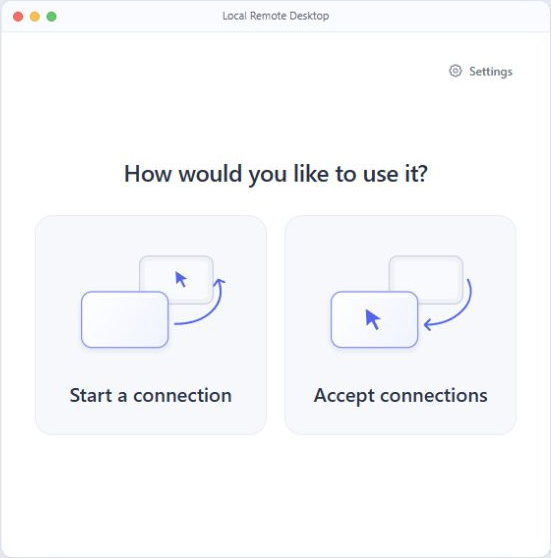
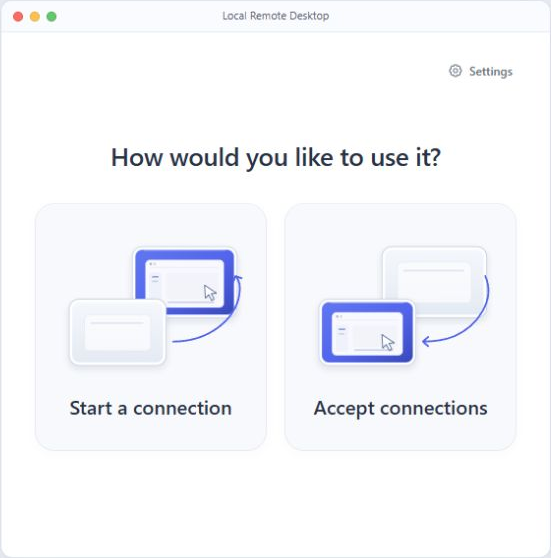
design: rebuild entry art with controlled desktop scenes

diff --git a/design/entry-review/styles.css b/design/entry-review/styles.css
@@ -679,9 +679,9 @@ input[type=checkbox] {
 }
 .welcome-heading {
   text-align: center;
-  line-height: 1.5;
-  margin: 0 0 26px;
-  font-size: 24px;
+  line-height: 1.4;
+  margin: 0 0 30px;
+  font-size: 26px;
   font-weight: 500;
   color: #293247;
   letter-spacing: -.35px;
@@ -697,17 +697,19 @@ input[type=checkbox] {
   align-items: center;
   justify-content: center;
   text-align: center;
-  min-height: 224px;
-  padding: 20px 14px 24px;
-  border: 1px solid #e9ecf4;
-  border-radius: 18px;
-  background: #f7f8fc;
+  min-height: 252px;
+  padding: 20px 14px 22px;
+  border: 1px solid #e7ebf4;
+  border-radius: 20px;
+  background: #f8f9fc;
+  box-shadow: inset 0 1px 0 #ffffff, 0 3px 10px #33456a05;
+  transition: background-color 120ms ease, border-color 120ms ease, box-shadow 120ms ease;
 }
 .role-illustration {
-  width: 176px;
-  height: 130.24px;
+  width: 188px;
+  height: 145.7px;
   display: block;
-  margin: 0 0 13px;
+  margin: 0 0 17px;
   pointer-events: none;
 }
 .choice strong {
@@ -718,12 +720,14 @@ input[type=checkbox] {
   color: #293247;
 }
 .choice:hover:not(:disabled) {
-  border-color: #c8d0f5;
-  background: #f1f3fc;
+  border-color: #bdc9ef;
+  background: #ffffff;
+  box-shadow: inset 0 1px 0 #ffffff, 0 8px 22px #3349810d;
 }
 .choice:active:not(:disabled) {
-  border-color: #9aa8e8;
-  background: #e9edf9;
+  border-color: #9aaee9;
+  background: #edf1fa;
+  box-shadow: inset 0 1px 3px #3349810c;
 }
 .choice:focus-visible {
   outline: 3px solid #7c8deb;
@@ -737,13 +741,13 @@ input[type=checkbox] {
     gap: 12px;
   }
   .choice {
-    min-height: 205px;
+    min-height: 222px;
     padding: 17px 8px 20px;
     border-radius: 14px;
   }
   .role-illustration {
-    width: 150px;
-    height: 111px;
+    width: 152px;
+    height: 117.8px;
     margin-bottom: 14px;
   }
   .choice strong {
@@ -769,3 +773,5 @@ input[type=checkbox] {
 .settings-shortcut .icon { width: 16px; height: 16px; stroke-width: 1.5; }
 .settings-shortcut:hover:not(:disabled) { background: #f0f2f8; border-color: transparent; color: var(--ink); }
 .settings-shortcut:active:not(:disabled) { background: #e8ecf5; }
+
+@media (prefers-reduced-motion: reduce) { .choice { transition: none; } }

diff --git a/docs/entry-design.md b/docs/entry-design.md
@@ -55,7 +55,8 @@ the full visual proposal still needs review.
 The homepage keeps only the main question: no explanatory subtitle or role
 subtitles. Each role's icon and label are centered as one group. Both
 illustrations keep the local screen in the foreground at lower left, with a
-neutral remote screen behind it at upper right. A curved connection path reverses
+remote screen behind it at upper right. Brand blue now marks the operated
+desktop, not the identity of the local machine. A curved connection path reverses
 direction to show connection initiation, not video-data direction. The pointer
 sits on the operated screen: remote for Start, local for Accept. Rounded screens
 and palette echo the approved brand; these are functional illustrations, not new
@@ -160,6 +161,28 @@ shortcut. Navigating from the homepage reached the expected task screens; the
 labeled Settings shortcut opened its existing preview panel. Updated renders
 are browser mockups, not native client evidence. Earlier empty/error scenario
 screenshots remain earlier captures, not updated harmony-pass images.
+
+## Finished-product visual pass — 2026-10-12
+
+The owner asked for a visibly larger aesthetic improvement. This iteration
+rebuilds the illustrations rather than reporting an unmeasurable percentage.
+Each display has a precise casing, inset desktop, restrained depth and a
+fictional application window. The operated desktop is lit in the existing blue
+palette, with a native-like pointer; the other stays neutral. Local/remote
+positions, connection direction, role names and pairing logic remain unchanged.
+Blue is confined to the functional illustration instead of spreading across the
+page. No real screen content, OS logos or new product logos are used.
+
+The prompt is 26px, tiles 252px high, and illustrations 188 × 145.7px. This
+increases useful visual content and reduces the earlier empty-space imbalance.
+Equal roles retain equal size; hover/press responds through border/background/
+shadow with no movement and a 120ms transition disabled for reduced motion.
+
+Browser review observed four Windows/Mac × English/Chinese homepage variants:
+all vector assets loaded, content fit, labels stayed single-line and image/text
+centers matched within 0.01px. These are browser-layout observations, not native
+GUI acceptance or evidence of a measured percentage improvement. Other task
+pages retain the preceding harmony pass.
 
 ## Design responsibility
 
